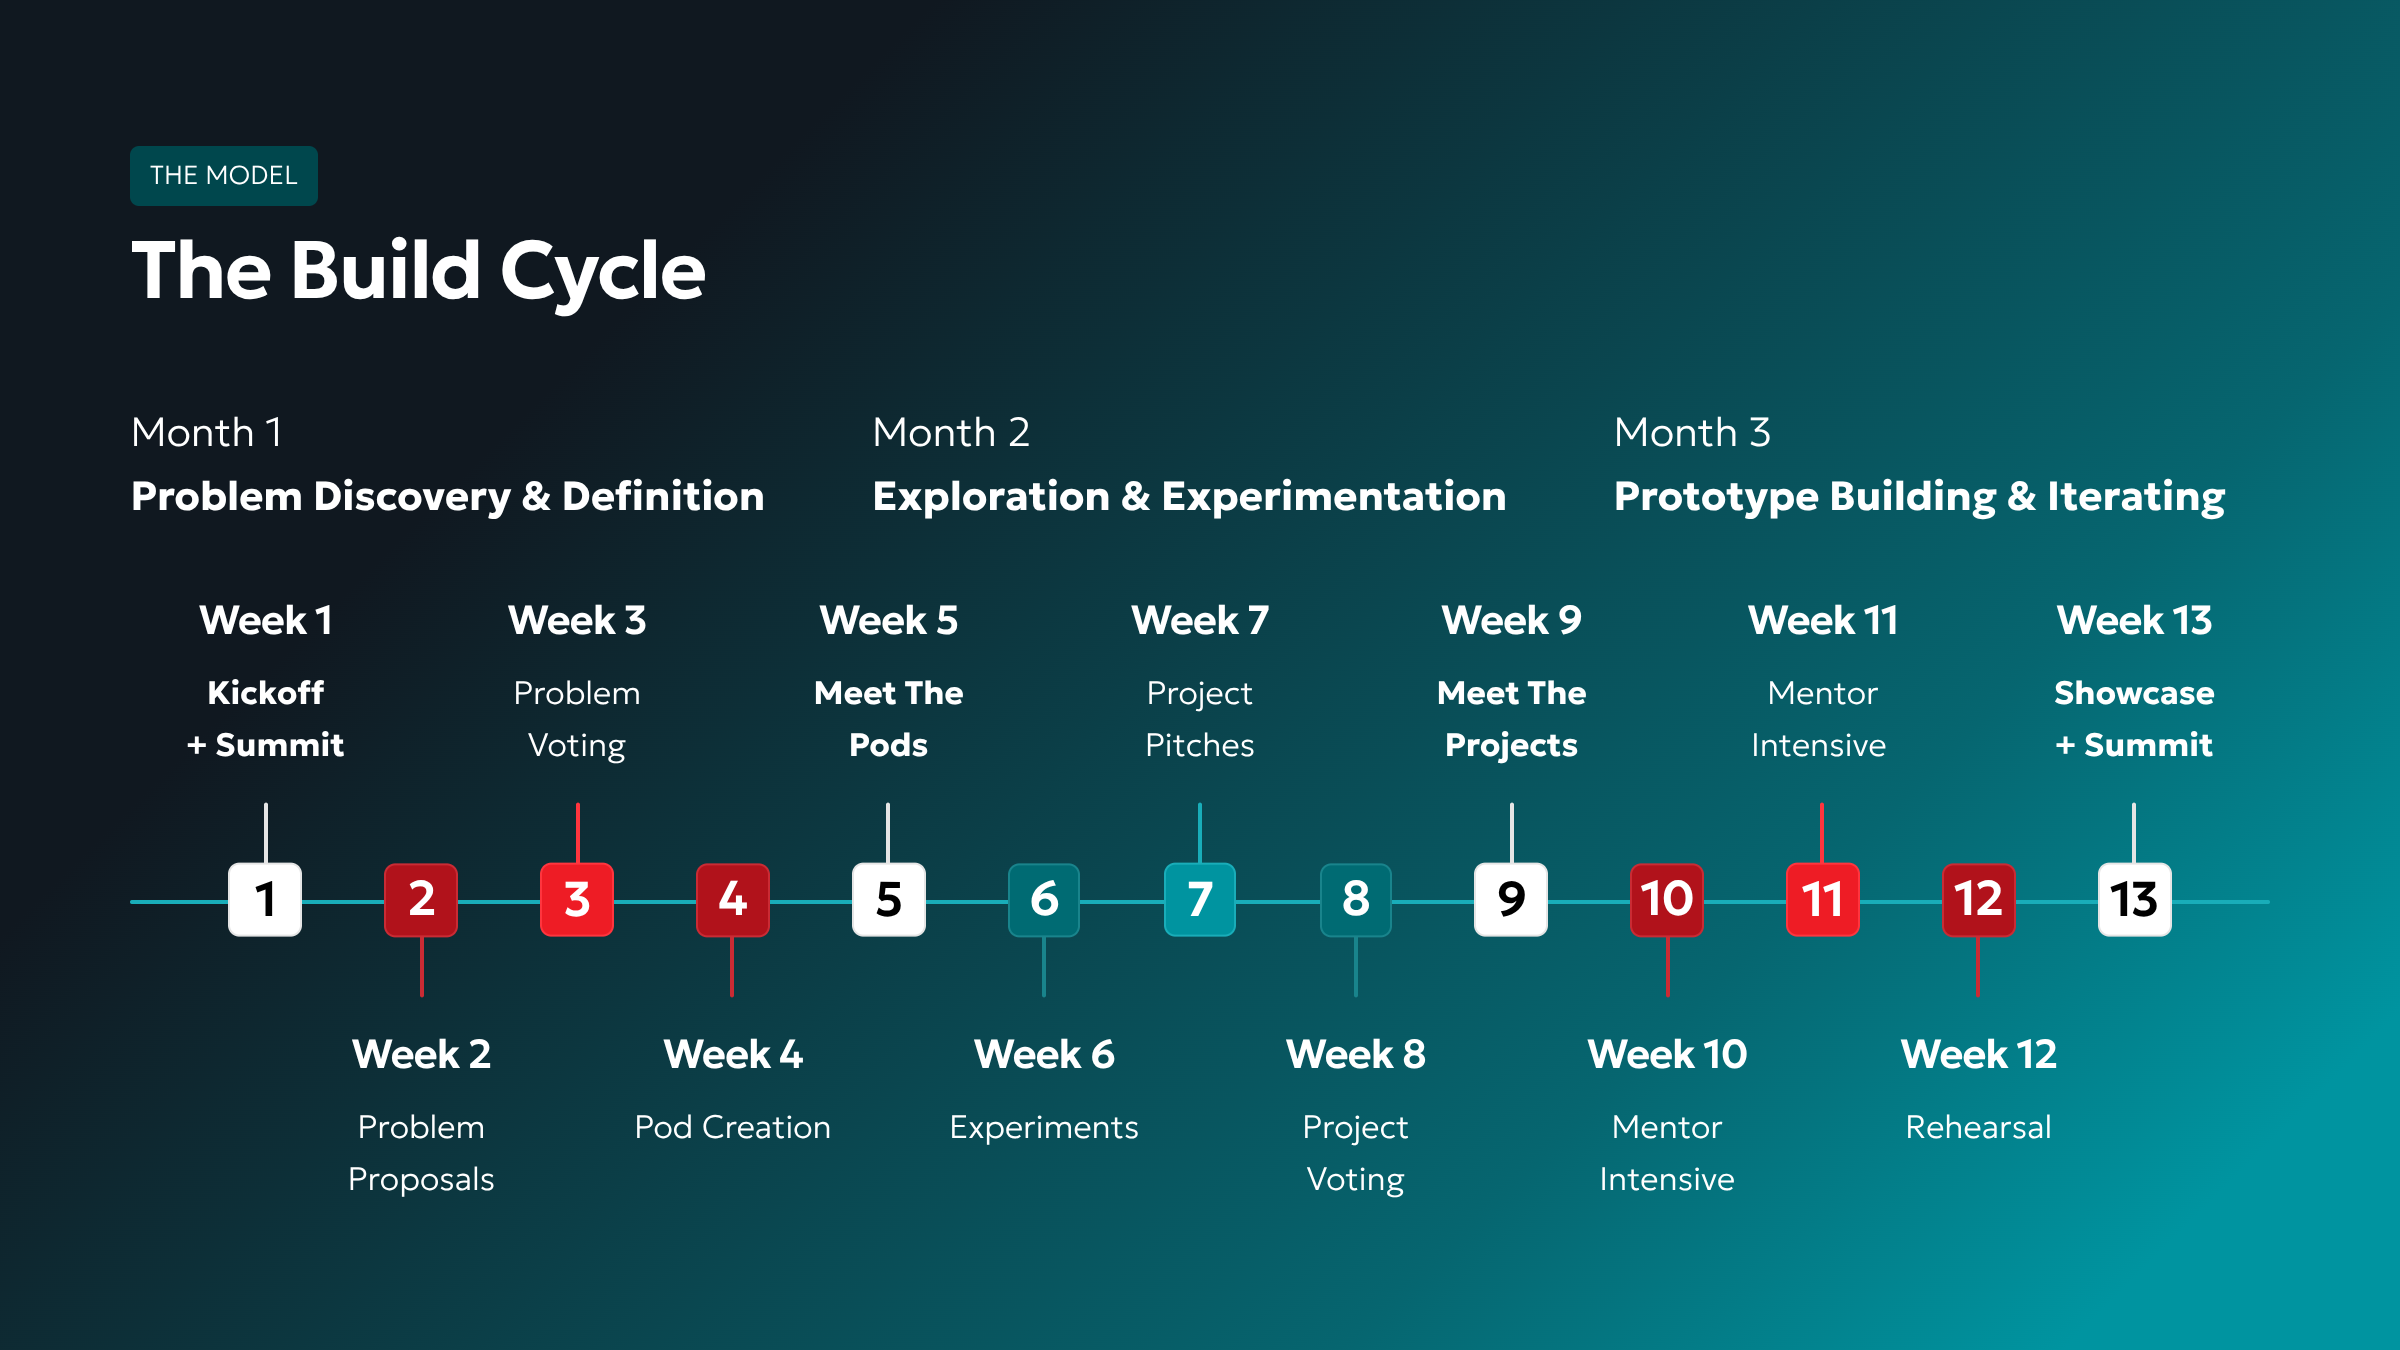
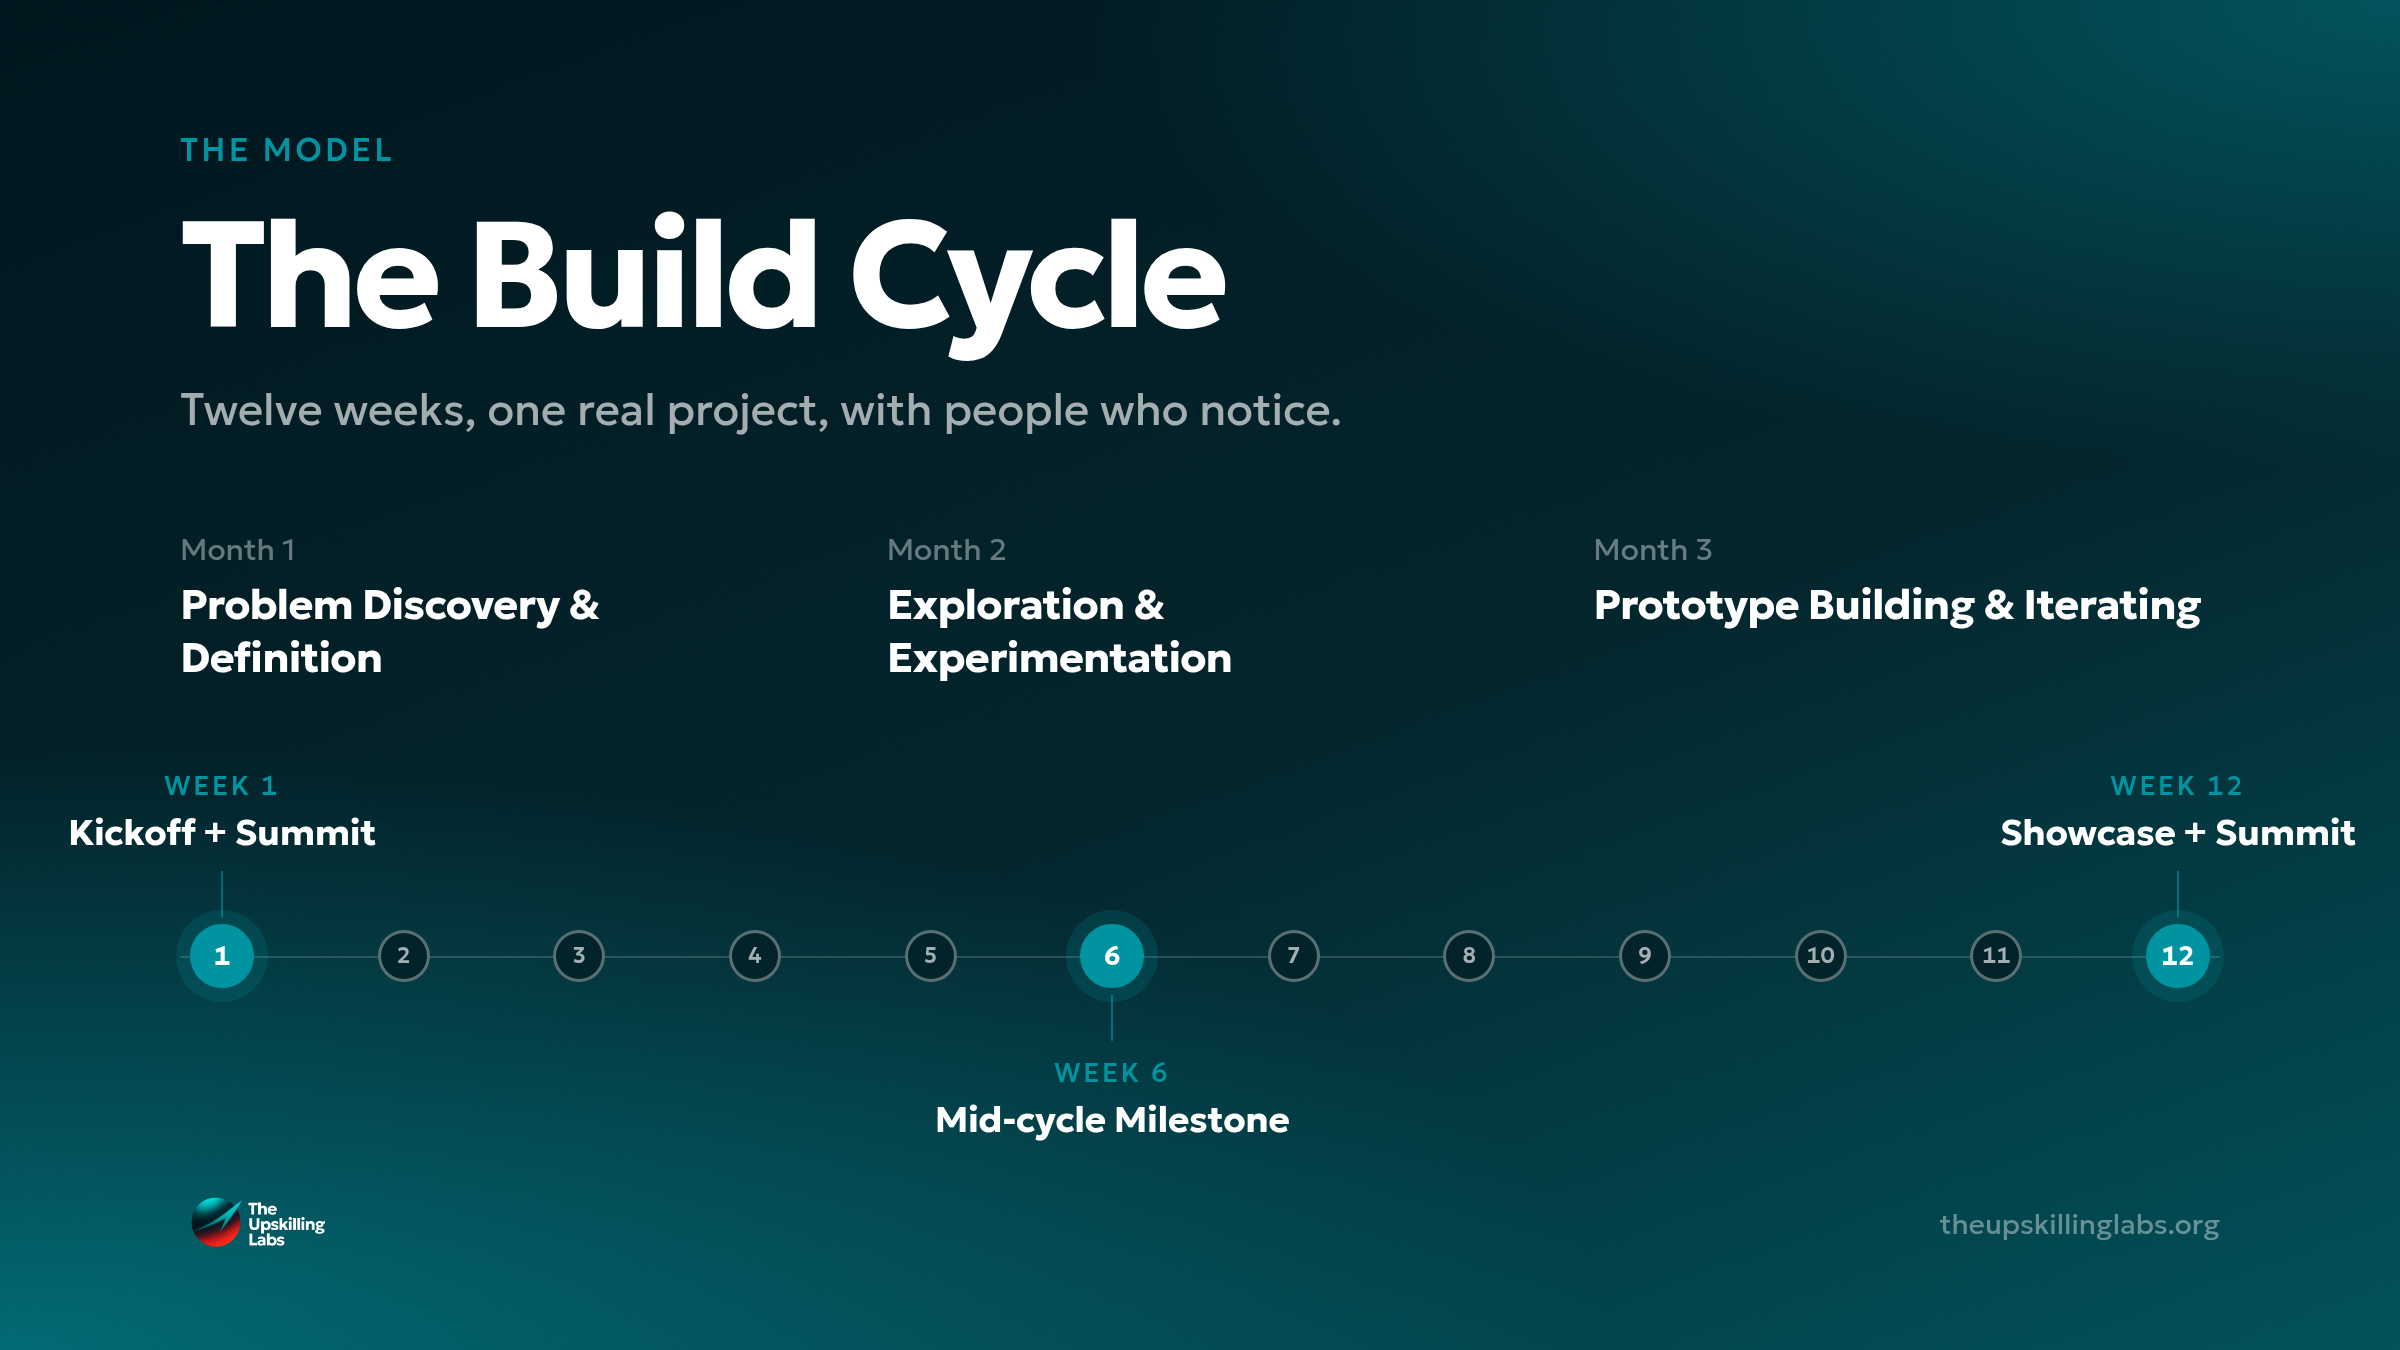
Fix asset rendering: show real PNGs, drop placeholder SVGs, redo Build Cycle slide
- support.js forced every brand image to a crude placeholder SVG via an
  unconditional IMG_FALLBACKS swap, so the real PNG renders (byte-identical
  to OLOS public/assets) never displayed. Remove the fallback machinery and
  the 9 misleading SVGs; the PNGs are the single canonical asset per item.
- support.js also never found the x-dc component script (it sits outside
  <x-dc>) and initialised before the DOM was parsed, so the prompt library,
  swatch copy buttons, and template interpolation never ran. Wait for
  DOMContentLoaded and fall back to a document-wide script lookup.
- Regenerate sample-slide-build-cycle.png on the shipped system: the old
  slide showed the retired 13-week model; the new 2400x1350 render uses the
  cover gradient, plain eyebrow label, Geologica, and the twelve-week rail
  with the real milestones (W1 kickoff, W6 mid-cycle, W12 showcase).
- Add superbloom-white.png (fiscal sponsor mark, copied from OLOS).

Claude-Session: https://claude.ai/code/session_01Vh1QuMb524wDpinCqbKFm4

diff --git a/support.js b/support.js
@@ -1,39 +1,10 @@
 /**
  * Claude Design .dc.html Runtime
  * Implements the x-dc custom element, template resolution, sc-for loops,
- * style-hover handlers, onClick bindings, and brand image fallbacks.
+ * style-hover handlers, and onClick bindings.
  */
 (function () {
   'use strict';
-
-  // ── Brand image fallback map (.png refs → .svg files) ─────────────────────
-  const IMG_FALLBACKS = {
-    'assets/logo-lockup-light.png': 'assets/logo-lockup-light.svg',
-    'assets/orb-mark.png': 'assets/orb-mark.svg',
-    'assets/dcpl-knockout-logo.png': 'assets/dcpl-knockout-logo.svg',
-    'assets/levy-strategic-design-white.png': 'assets/levy-strategic-design-white.svg',
-    'assets/cohort-grid-sample.png': 'assets/cohort-grid-sample.svg',
-    'assets/sample-square-event.png': 'assets/sample-square-event.svg',
-    'assets/sample-workshop-recap.png': 'assets/sample-workshop-recap.svg',
-    'assets/sample-alumni-spotlight.png': 'assets/sample-alumni-spotlight.svg',
-    'assets/sample-slide-build-cycle.png': 'assets/sample-slide-build-cycle.svg',
-  };
-
-  function applyImageFallbacks(root) {
-    (root || document).querySelectorAll('img[src]').forEach(img => {
-      const src = img.getAttribute('src');
-      const fallback = IMG_FALLBACKS[src];
-      if (fallback) {
-        img.setAttribute('src', fallback);
-      } else {
-        img.addEventListener('error', function onErr() {
-          img.removeEventListener('error', onErr);
-          const s = img.getAttribute('src');
-          if (IMG_FALLBACKS[s]) img.setAttribute('src', IMG_FALLBACKS[s]);
-        });
-      }
-    });
-  }
 
   // ── DCLogic base class ─────────────────────────────────────────────────────
   class DCLogic {
@@ -171,7 +142,6 @@
 
         // Resolve text and attributes with item scope
         processSubtree(wrap, vals, { [asName]: item });
-        applyImageFallbacks(wrap);
 
         Array.from(wrap.childNodes).forEach(child => frag.appendChild(child));
       });
@@ -184,8 +154,13 @@
   // ── x-dc Custom Element ───────────────────────────────────────────────────
   class XDCElement extends HTMLElement {
     connectedCallback() {
-      // Wait for full DOM parse before initialising
-      Promise.resolve().then(() => this._init());
+      // Wait for full DOM parse before initialising — connectedCallback fires
+      // at the opening tag, before children (or the component script) exist.
+      if (document.readyState === 'loading') {
+        document.addEventListener('DOMContentLoaded', () => this._init());
+      } else {
+        Promise.resolve().then(() => this._init());
+      }
     }
 
     _init() {
@@ -202,12 +177,12 @@
         helmet.remove();
       }
 
-      // 2. Find and parse the component script
-      const scriptEl = this.querySelector('script[type="text/x-dc"][data-dc-script]');
+      // 2. Find and parse the component script — it may sit outside <x-dc>
+      const scriptEl = this.querySelector('script[type="text/x-dc"][data-dc-script]')
+        || document.querySelector('script[type="text/x-dc"][data-dc-script]');
       if (!scriptEl) {
         // No component script — just apply visual enhancements
         processHover(this);
-        applyImageFallbacks(this);
         return;
       }
 
@@ -221,7 +196,6 @@
       } catch (e) {
         console.error('[x-dc] Component parse error:', e);
         processHover(this);
-        applyImageFallbacks(this);
         return;
       }
 
@@ -238,8 +212,6 @@
         processSubtree(container, vals, {});
         // Hover styles (including newly created sc-for children)
         processHover(container);
-        // Image fallbacks
-        applyImageFallbacks(container);
       };
 
       instance._subscribe(render);
@@ -249,13 +221,6 @@
 
   if (!customElements.get('x-dc')) {
     customElements.define('x-dc', XDCElement);
-  }
-
-  // ── Apply image fallbacks on initial load ─────────────────────────────────
-  if (document.readyState === 'loading') {
-    document.addEventListener('DOMContentLoaded', () => applyImageFallbacks());
-  } else {
-    applyImageFallbacks();
   }
 
 })();
